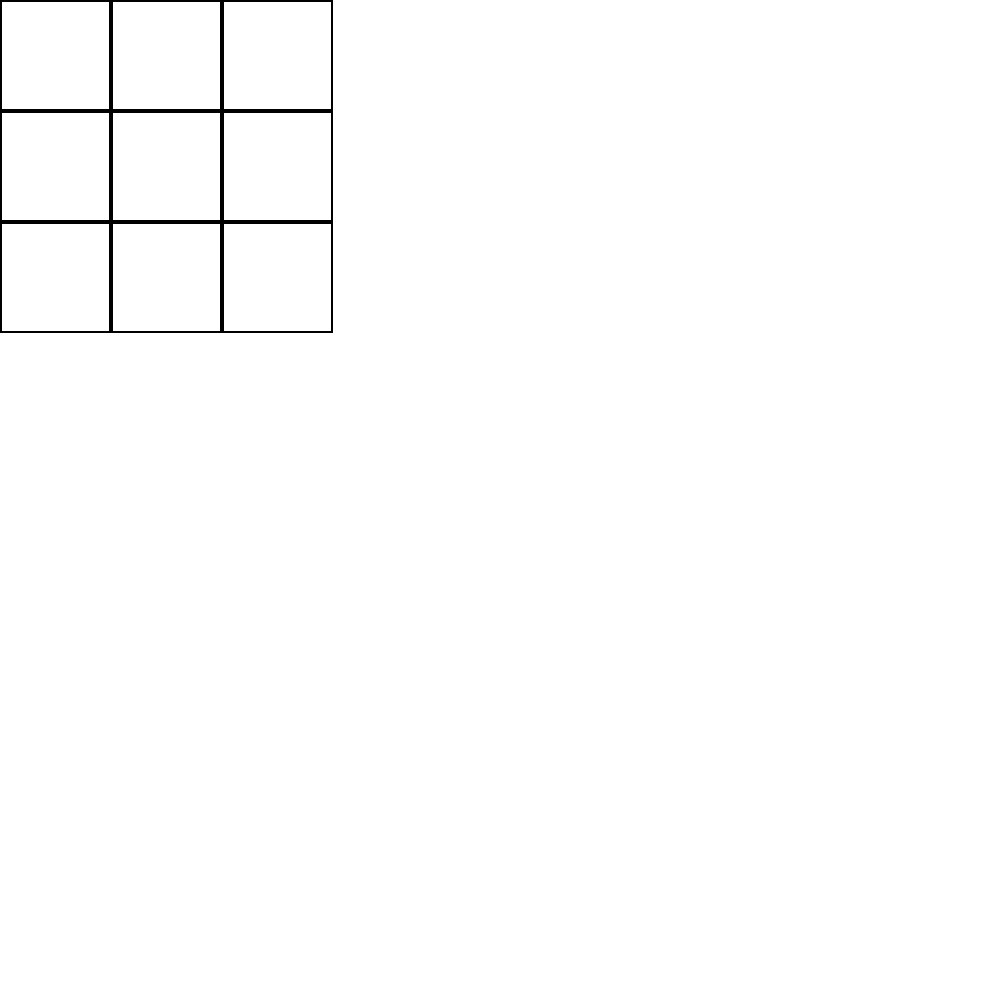
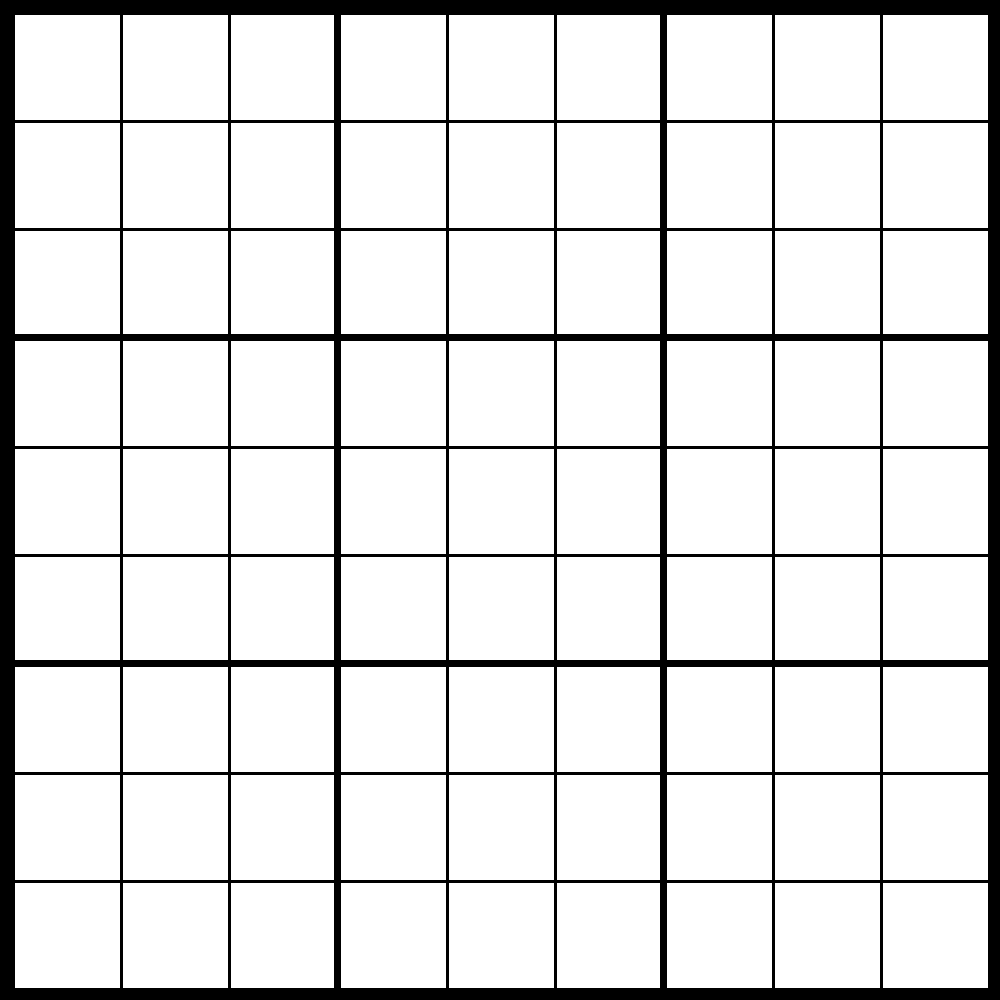
finish create grid (without digit)

diff --git a/sudokuSolver/outputGrid/createOutputGrid.c b/sudokuSolver/outputGrid/createOutputGrid.c
@@ -11,17 +11,42 @@
 #define GRID_HEIGHT 1000
 
 //wirdth of each border of the sudoku grid in px
-#define SMALL_BORDER 2
-#define LARGE_BORDER 8
+#define WIDTH_BORDER 15
+#define RATIO_BORDER 0.5
+#define NB_SUB_square 3
 
-void createSquare(SDL_Surface* img, int x0, int y0, int w, int h, Uint32 pixelLine, Uint32 pixelBg, int lW){
-    
 
-    drawRect(img, x0, y0, w, h, pixelLine);
+void createGrid(SDL_Surface* img, int x_0, int y_0, int w, double widthBorder, int depthLevel, Uint32 lineColor, Uint32 bgColor){
+    if(depthLevel <= 0){
+        return;
+    }
 
-    drawRect(img, x0+lW, y0+lW, w-2*lW, h-2*lW, pixelBg);
+    //Draw line
+    drawRect(img, x_0, y_0, w, w, lineColor);
 
+    //Draw bg
+    drawRect(img, x_0+widthBorder, y_0+widthBorder, w-2*widthBorder, w-2*widthBorder, bgColor);
+
+
+    int new_widthBorder = (int) (widthBorder * RATIO_BORDER);
+    int new_w = w / NB_SUB_square ;
+
+
+    for (int x = 0; x < NB_SUB_square; x++)
+    {
+        for (int y = 0; y < NB_SUB_square; y++)
+        {
+            
+            int new_x_0 = x_0 + widthBorder - new_widthBorder + x * (new_w - new_widthBorder);
+            int new_y_0 = y_0 + widthBorder - new_widthBorder + y * (new_w - new_widthBorder);
+
+            
+
+            createGrid(img, new_x_0, new_y_0, new_w, new_widthBorder, depthLevel-1, lineColor, bgColor);
+        }        
+    }
 }
+
 
 SDL_Surface* createOutputGrid(const char *path){
     int testGrid[9][9];
@@ -40,24 +65,7 @@ SDL_Surface* createOutputGrid(const char *path){
     Uint32 blackPixel = SDL_MapRGBA(outputImg->format, 0, 0, 0, 0);
 
 
-
-    
-
-    int squareWidth = GRID_HEIGHT / 9;
-
-    for (int y = 0; y < 3; y++)
-    {
-        for (int x = 0; x < 3; x++)
-        {
-            createSquare(outputImg, x * squareWidth, y * squareWidth, squareWidth, squareWidth, blackPixel, whitePixel, SMALL_BORDER);
-        }
-        
-    }
-    
-    
-    
-    
-    
+    createGrid(outputImg, 0,0, outputImg->w, WIDTH_BORDER, 3, blackPixel, whitePixel);
 
     
     saveImg(outputImg, "outputGrid.jpg");
